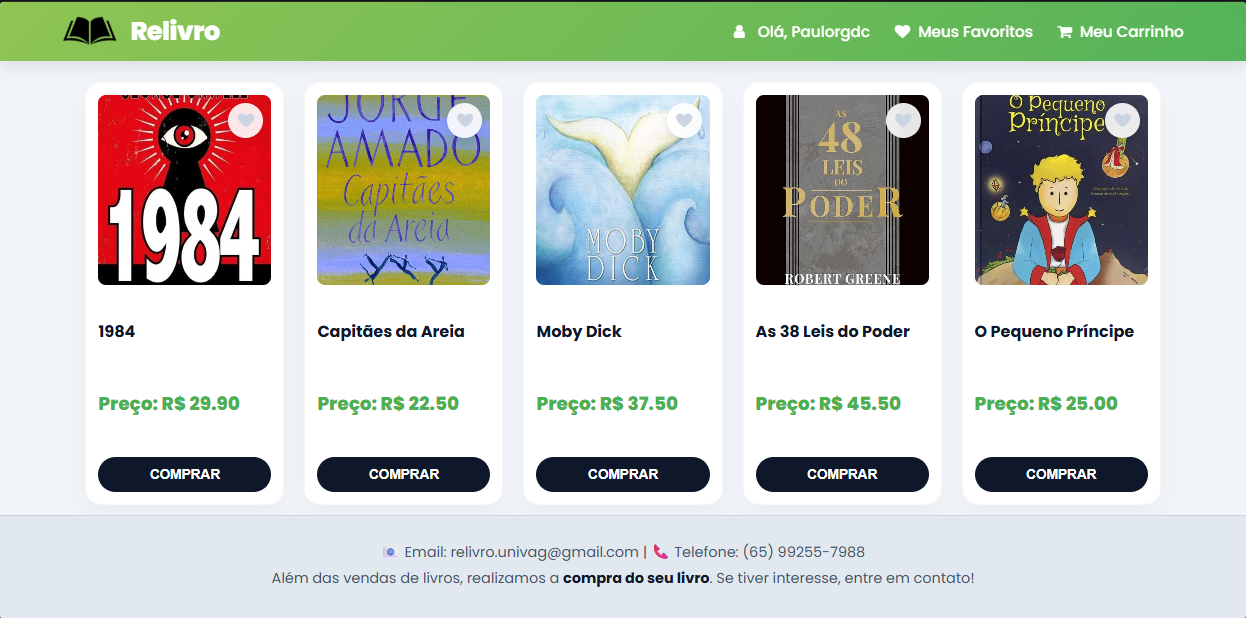
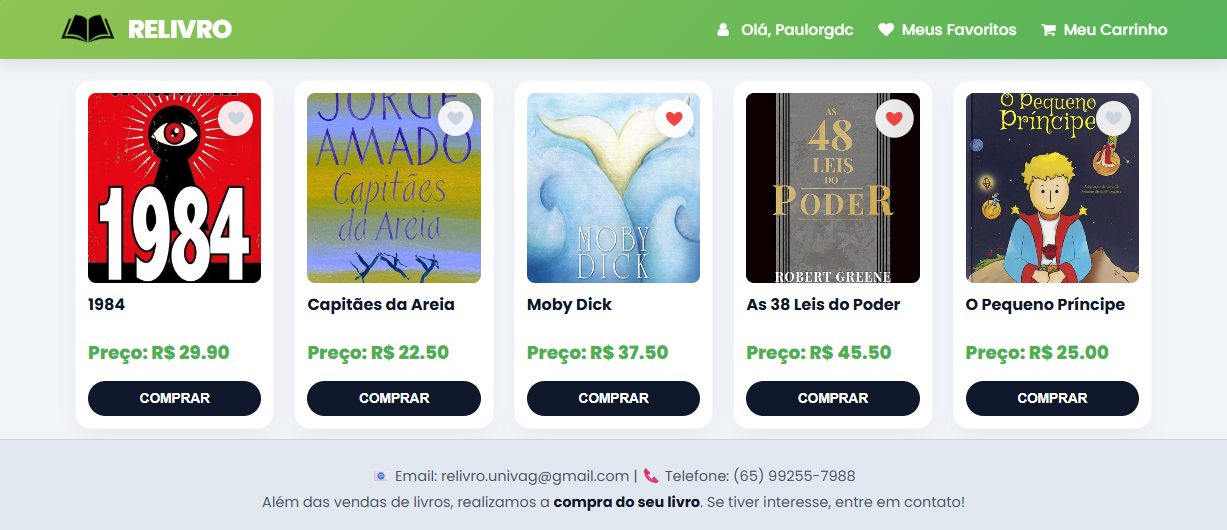
refactor complete

diff --git a/frontend/templates/favorites.html b/frontend/templates/favorites.html
@@ -12,7 +12,7 @@
         <div class="header-content">
             <a href="../index.html" class="logo-container" style="text-decoration: none;">
                 <img src="../assets/images/logo.jpeg" alt="Logo Relivro" class="header-logo">
-                <span class="logo">Relivro</span>
+                <span class="logo">RELIVRO</span>
             </a>
             <nav class="nav-links">
                 <a href="favorites.html"><i class="fa fa-heart"></i> Meus Favoritos</a>

diff --git a/frontend/templates/cart.html b/frontend/templates/cart.html
@@ -13,7 +13,7 @@
     <div class="header-content">
         <a href="../index.html" class="logo-container" style="text-decoration: none;">
             <img src="../assets/images/logo.jpeg" alt="Logo Relivro" class="header-logo">
-            <span class="logo">Relivro</span>
+            <span class="logo">RELIVRO</span>
         </a>
 
         <nav class="nav-links">
